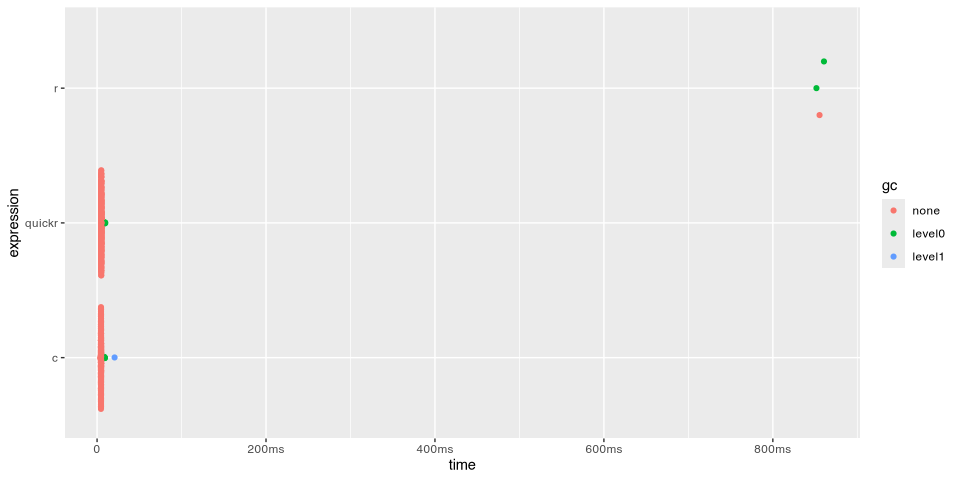
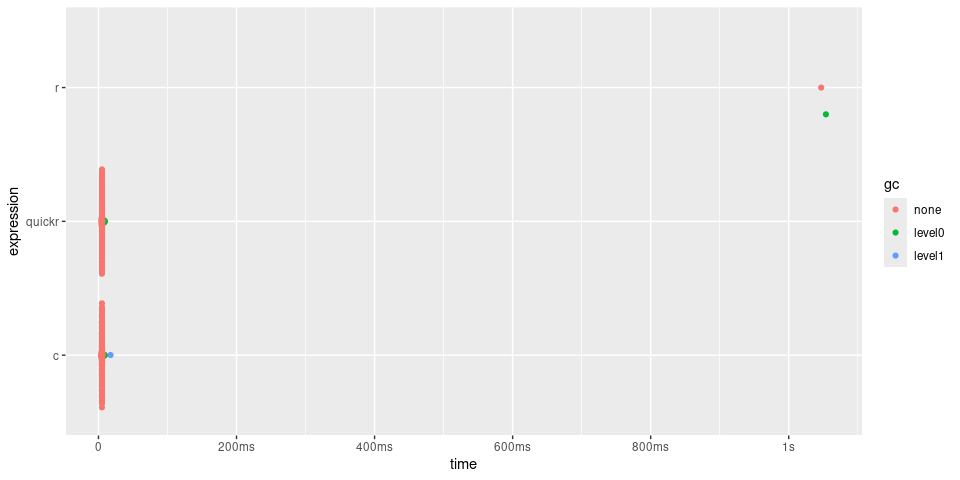
rerender readme

diff --git a/README.md b/README.md
@@ -8,6 +8,7 @@ src="https://i.giphy.com/media/v1.Y2lkPTc5MGI3NjExMjBhNWt1Z3Q4ZW56cG00c2hncmtwbG
 alt="An animated GIF showing two characters in a spaceship cockpit rapidly accelerating into hyperspace, with stars stretching into bright streaks, creating a sensation of rapid acceleration and motion." />
 
 <!-- badges: start -->
+
 <!-- badges: end -->
 
 The goal of quickr is to make your R code run quicker.
@@ -20,27 +21,49 @@ trade back some of that flexibility for some speed, for the context of a
 single function.
 
 <!-- Programming language design requires some hard decisions and trade-ofs. -->
+
 <!-- When you want to have it all, you typically end up have two (or more!) languages. -->
-<!-- An interperted, dynamic language full of conveniences, and a staticly-typed, explicit, high-performance language. -->
+
+<!-- An interpreted, dynamic language full of conveniences, and a staticly-typed, explicit, high-performance language. -->
+
 <!-- This is sometimes called the "Two Language Problem". -->
+
 <!-- Like [Numba](https://numba.pydata.org) in Python, or the [Julia](https://julialang.org) language, quickr is a solution to the [two-language problem](https://juliadatascience.io/julia_accomplish). -->
+
 <!-- Unlike those tools however, quickr does not bundle most of LLVM, keeping dependencies lightweight. -->
+
 <!-- Quickr works by translating the R code to Fortran. -->
+
 <!-- Fortran might seem like a surprising choice, but it has many compelling properties: -->
-<!-- -   Suberb performance. -->
-<!--     As a stalwart of the numerical computing community, Fortran has accrued the benefit of countless person-hours from top-teir computer scientests and compiler engineers. -->
+
+<!-- -   Superb performance. -->
+
+<!--     As a stalwart of the numerical computing community, Fortran has accrued the benefit of countless person-hours from top-tier computer scientists and compiler engineers. -->
+
 <!--     There is a reason that over 20% of R itself, (and numpy, and ...) are still in Fortran, and it's not merely because of legacy. -->
+
 <!--     And this trend of compiler engineers focusing on Fortran is not stopping. -->
+
 <!-- -   Large overlap with R semantics and syntax for numerical computing. -->
+
 <!--     Fortran and R have very similar syntax for operating on arrays. -->
+
 <!--     Like R, Fortran has builtin-in support for nd-arrays, provides vectorized operators on arrays, convenient array slicing semantics that match many capabilities of R's `[` , 1-based indexing, and a well-populated collection of operators for working on those arrays like `min`, `max`, `any` `all`, etc. -->
-<!--     This means that it's relatively straighforward to translate R to Fortran, often just a 1:1 mapping of semantics, with some changes to syntax. -->
+
+<!--     This means that it's relatively straightforward to translate R to Fortran, often just a 1:1 mapping of semantics, with some changes to syntax. -->
+
 <!--     This is also why Fortran has such superb performance, and why it attracts compiler engineers to work on it. -->
+
 <!--     Because the language spec guarantees things like, static shapes for nd-arrays, views of those arrays, etc, it provides many opportunities for compiler engineers to do things like generate SIMD instructions, or automatically parallelize code. -->
+
 <!-- -   Excellent support in R. -->
+
 <!--     One of the original motivations for R was to serve as a front-end for Fortran. -->
+
 <!--     Since it's inception, R has supported Fortran extensions, and supported them well. -->
+
 <!--     It also means that any computing environment where R build tools are available, Fortran is supported. -->
+
 <!--     The barrier to entry and thorny questions, that, for example, using Rust in CRAN might raise, is non-existent for Fortran. -->
 
 The main exported function is `quick()`, here is how you use it.
@@ -95,7 +118,7 @@ convolve_c <- inline::cfunction(
     xa = REAL(a); xb = REAL(b); xab = REAL(ab);
     for(int i = 0; i < nab; i++) xab[i] = 0.0;
     for(int i = 0; i < na; i++)
-        for(int j = 0; j < nb; j++) 
+        for(int j = 0; j < nb; j++)
             xab[i + j] += xa[i] * xb[j];
     UNPROTECT(3);
     return ab;
@@ -115,9 +138,9 @@ timings
 #> # A tibble: 3 × 6
 #>   expression      min   median `itr/sec` mem_alloc `gc/sec`
 #>   <bch:expr> <bch:tm> <bch:tm>     <dbl> <bch:byt>    <dbl>
-#> 1 r           855.3ms  855.3ms      1.17     847KB     2.34
-#> 2 quickr       4.74ms   4.95ms    201.       782KB     3.08
-#> 3 c            4.29ms   4.66ms    214.       782KB     3.63
+#> 1 r             1.05s    1.05s     0.955     847KB    0.955
+#> 2 quickr        4.8ms   5.09ms   195.        782KB    3.07 
+#> 3 c            4.73ms   5.04ms   196.        782KB    3.09
 plot(timings) + bench::scale_x_bench_time(base = NULL)
 ```
 
@@ -140,13 +163,16 @@ In the case of `convolve()`, `quick()` returns a function approximately
 
 <!-- -->
 
-    #>  [1] !=        %%        %/%       &         &&        (         *        
-    #>  [8] +         -         /         :         <         <-        <=       
-    #> [15] =         ==        >         >=        Fortran   [         [<-      
-    #> [22] ^         c         cat       cbind     character declare   double   
-    #> [29] for       if        ifelse    integer   length    logical   matrix   
-    #> [36] max       min       numeric   print     prod      raw       seq      
-    #> [43] sum       which.max which.min {         |         ||
+    #>  [1] -         :         !=        (         [         [<-       {        
+    #>  [8] *         /         &         &&        %/%       %%        ^        
+    #> [15] +         <         <-        <=        =         ==        >        
+    #> [22] >=        |         ||        Arg       Conj      Fortran   Im       
+    #> [29] Mod       Re        abs       acos      asin      atan      c        
+    #> [36] cat       cbind     ceiling   character cos       declare   double   
+    #> [43] exp       floor     for       if        ifelse    integer   length   
+    #> [50] log       log10     logical   matrix    max       min       numeric  
+    #> [57] print     prod      raw       seq       sin       sqrt      sum      
+    #> [64] tan       which.max which.min
 
 Many of these restrictions are expected to be relaxed as the project
 matures. However, quickr is intended primarily for high-performance
@@ -246,17 +272,17 @@ emission_probs <- matrix(runif (num_states * num_obs), nrow = num_states)
 emission_probs <- emission_probs / rowSums(emission_probs)  # normalize rows
 
 timings <- bench::mark(
-  slow_viterbi = slow_viterbi(observations, states, initial_probs, 
+  slow_viterbi = slow_viterbi(observations, states, initial_probs,
                               transition_probs, emission_probs),
-  quick_viterbi = quick_viterbi(observations, states, initial_probs, 
+  quick_viterbi = quick_viterbi(observations, states, initial_probs,
                                 transition_probs, emission_probs)
 )
 timings
 #> # A tibble: 2 × 6
 #>   expression         min   median `itr/sec` mem_alloc `gc/sec`
 #>   <bch:expr>    <bch:tm> <bch:tm>     <dbl> <bch:byt>    <dbl>
-#> 1 slow_viterbi   123.8µs 140.71µs     6937.     178KB     18.9
-#> 2 quick_viterbi    2.1µs   2.33µs   398117.        0B      0
+#> 1 slow_viterbi  143.04µs    162µs     6047.     178KB     14.5
+#> 2 quick_viterbi   2.43µs   2.53µs   368609.        0B      0
 plot(timings)
 ```
 
@@ -334,8 +360,8 @@ summary(timings, relative = TRUE)
 #> # A tibble: 2 × 6
 #>   expression           min median `itr/sec` mem_alloc `gc/sec`
 #>   <bch:expr>         <dbl>  <dbl>     <dbl>     <dbl>    <dbl>
-#> 1 diffuse_heat        104.   103.        1      1014.      Inf
-#> 2 quick_diffuse_heat    1      1       102.        1       NaN
+#> 1 diffuse_heat        127.   122.        1      1014.      Inf
+#> 2 quick_diffuse_heat    1      1       121.        1       NaN
 plot(timings)
 ```
 
@@ -381,9 +407,9 @@ timings
 #> # A tibble: 3 × 6
 #>   expression      min   median `itr/sec` mem_alloc `gc/sec`
 #>   <bch:expr> <bch:tm> <bch:tm>     <dbl> <bch:byt>    <dbl>
-#> 1 r            96.4ms 109.81ms      7.16  124.31MB    22.9 
-#> 2 rcpp         18.1ms  18.29ms     54.4     4.38MB     0   
-#> 3 quickr          6ms   6.07ms    160.    781.35KB     1.98
+#> 1 r           105.4ms 109.13ms      7.42  124.31MB    22.3 
+#> 2 rcpp         19.7ms  19.84ms     49.4     4.44MB     1.98
+#> 3 quickr          7ms   7.09ms    138.    781.35KB     2.00
 
 timings$expression <- factor(names(timings$expression), rev(names(timings$expression)))
 plot(timings) + bench::scale_x_bench_time(base = NULL)
